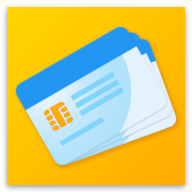
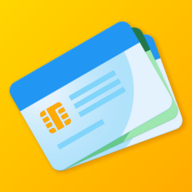
Updates

diff --git a/index.html b/index.html
@@ -49,11 +49,11 @@
     <meta property="og:title" content="TesSa" />
     <meta
       property="og:description"
-      content="Le Tessere Sanitarie sempre con te"
+      content="Tessere Sanitarie e Green Pass sempre con te"
     />
     <meta
       property="og:image"
-      content="https://baleendevs.github.io/tessa/img/tessa_logo_1080.jpg"
+      content="https://baleendevs.github.io/tessa/img/tessa_logo_GP_1080.jpg"
     />
     <!-- Twitter -->
     <meta property="twitter:card" content="summary_large_image" />
@@ -64,11 +64,11 @@
     <meta property="twitter:title" content="TesSa" />
     <meta
       property="twitter:description"
-      content="Le Tessere Sanitarie sempre con te"
+      content="Tessere Sanitarie e Green Pass sempre con te"
     />
     <meta
       property="twitter:image"
-      content="https://baleendevs.github.io/tessa/img/tessa_logo_1080.jpg"
+      content="https://baleendevs.github.io/tessa/img/tessa_logo_GP_1080.jpg"
     />
 
     <link
@@ -87,10 +87,11 @@
       <div class="nav-wrapper">
         <div class="brand-logo center">
           <a href="index.html" class="valign-wrapper"
-            ><img class="logo-img" src="img/tessa_logo_small.png" alt="" /><span
-              class="title"
-              >TesSa</span
-            ></a
+            ><img
+              class="logo-img"
+              src="img/tessa_logo_GP_small.png"
+              alt=""
+            /><span class="title">TesSa</span></a
           >
         </div>
       </div>
@@ -98,15 +99,15 @@
     <main class="container">
       <div class="row">
         <div class="col s12 m6 l6 xl5 center">
-          <img class="tessa-screenshot" src="img/carousel1_s.jpg" alt="" />
+          <img class="tessa-screenshot" src="img/carousel1_s_GP.jpg" alt="" />
         </div>
         <div class="content col s12 m6 l6 xl7">
           <h4 class="index-content-title">
-            TesSa - Le Tessere Sanitarie sempre con te
+            TesSa - Tessere Sanitarie e Green Pass sempre con te
           </h4>
           <p class="flow-text">
-            Installa TesSa e porta sempre con te le Tessere Sanitarie di cui hai
-            bisogno
+            Installa TesSa e tieni sempre a portata di mano le Tessere Sanitarie
+            ed i Green Pass di cui hai bisogno
           </p>
           <div class="center-align">
             <a

diff --git a/en/index.html b/en/index.html
@@ -49,11 +49,11 @@
     <meta property="og:title" content="TesSa" />
     <meta
       property="og:description"
-      content="Bring your Health Insurance Cards always with you"
+      content="Health Insurance Cards and Green Passes at your fingertips"
     />
     <meta
       property="og:image"
-      content="https://baleendevs.github.io/tessa/img/tessa_logo_1080.jpg"
+      content="https://baleendevs.github.io/tessa/img/tessa_logo_GP_1080.jpg"
     />
     <!-- Twitter -->
     <meta property="twitter:card" content="summary_large_image" />
@@ -64,11 +64,11 @@
     <meta property="twitter:title" content="TesSa" />
     <meta
       property="twitter:description"
-      content="Bring your Health Insurance Cards always with you"
+      content="Health Insurance Cards and Green Passes at your fingertips"
     />
     <meta
       property="twitter:image"
-      content="https://baleendevs.github.io/tessa/img/tessa_logo_1080.jpg"
+      content="https://baleendevs.github.io/tessa/img/tessa_logo_GP_1080.jpg"
     />
 
     <link
@@ -89,7 +89,7 @@
           <a href="index.html" class="valign-wrapper"
             ><img
               class="logo-img"
-              src="../img/tessa_logo_small.png"
+              src="../img/tessa_logo_GP_small.png"
               alt=""
             /><span class="title">TesSa</span></a
           >
@@ -99,15 +99,19 @@
     <main class="container">
       <div class="row">
         <div class="col s12 m6 l6 xl5 center">
-          <img class="tessa-screenshot" src="../img/carousel1_s.jpg" alt="" />
+          <img
+            class="tessa-screenshot"
+            src="../img/carousel1_s_GP.jpg"
+            alt=""
+          />
         </div>
         <div class="content col s12 m6 l6 xl7">
           <h4 class="index-content-title">
-            TesSa - Bring your Health Insurance Cards always with you
+            TesSa - Health Insurance Cards and Green Passes at your fingertips
           </h4>
           <p class="flow-text">
-            Install TesSa and keep all the Health Insurance Cards you need
-            always with you
+            Install TesSa and bring all the Health Insurance Cards and Green
+            Passes you need always with you
           </p>
           <div class="center-align">
             <a

diff --git a/share.html b/share.html
@@ -49,11 +49,11 @@
     <meta property="og:title" content="TesSa" />
     <meta
       property="og:description"
-      content="Le Tessere Sanitarie sempre con te"
+      content="Tessere Sanitarie e Green Pass sempre con te"
     />
     <meta
       property="og:image"
-      content="https://baleendevs.github.io/tessa/img/tessa_share_logo_1080.jpg"
+      content="https://baleendevs.github.io/tessa/img/tessa_share_logo_GP_1080.jpg"
     />
     <!-- Twitter -->
     <meta property="twitter:card" content="summary_large_image" />
@@ -64,11 +64,11 @@
     <meta property="twitter:title" content="TesSa" />
     <meta
       property="twitter:description"
-      content="Le Tessere Sanitarie sempre con te"
+      content="Tessere Sanitarie e Green Pass sempre con te"
     />
     <meta
       property="twitter:image"
-      content="https://baleendevs.github.io/tessa/img/tessa_share_logo_1080.jpg"
+      content="https://baleendevs.github.io/tessa/img/tessa_share_logo_GP_1080.jpg"
     />
 
     <link
@@ -87,10 +87,11 @@
       <div class="nav-wrapper">
         <div class="brand-logo center">
           <a href="index.html" class="valign-wrapper"
-            ><img class="logo-img" src="img/tessa_logo_small.png" alt="" /><span
-              class="title"
-              >TesSa</span
-            ></a
+            ><img
+              class="logo-img"
+              src="img/tessa_logo_GP_small.png"
+              alt=""
+            /><span class="title">TesSa</span></a
           >
         </div>
       </div>
@@ -115,8 +116,8 @@
             Aggiungi la Tessera Sanitaria di <span id="tsOwner"></span> su TesSa
           </h4>
           <p class="flow-text">
-            Installa TesSa e porta sempre con te le Tessere Sanitarie di cui hai
-            bisogno
+            Installa TesSa e tieni sempre a portata di mano le Tessere Sanitarie
+            ed i Green Pass di cui hai bisogno
           </p>
           <div class="center-align">
             <a

diff --git a/en/share.html b/en/share.html
@@ -49,11 +49,11 @@
     <meta property="og:title" content="TesSa" />
     <meta
       property="og:description"
-      content="Bring your Health Insurance Cards always with you"
+      content="Health Insurance Cards and Green Passes at your fingertips"
     />
     <meta
       property="og:image"
-      content="https://baleendevs.github.io/tessa/img/tessa_share_logo_1080.jpg"
+      content="https://baleendevs.github.io/tessa/img/tessa_share_logo_GP_1080.jpg"
     />
     <!-- Twitter -->
     <meta property="twitter:card" content="summary_large_image" />
@@ -64,11 +64,11 @@
     <meta property="twitter:title" content="TesSa" />
     <meta
       property="twitter:description"
-      content="Bring your Health Insurance Cards always with you"
+      content="Health Insurance Cards and Green Passes at your fingertips"
     />
     <meta
       property="twitter:image"
-      content="https://baleendevs.github.io/tessa/img/tessa_share_logo_1080.jpg"
+      content="https://baleendevs.github.io/tessa/img/tessa_share_logo_GP_1080.jpg"
     />
 
     <link
@@ -89,7 +89,7 @@
           <a href="index.html" class="valign-wrapper"
             ><img
               class="logo-img"
-              src="../img/tessa_logo_small.png"
+              src="../img/tessa_logo_GP_small.png"
               alt=""
             /><span class="title">TesSa</span></a
           >
@@ -116,8 +116,8 @@
             Add <span id="tsOwner"></span>'s Health Insurance Card to TesSa
           </h4>
           <p class="flow-text">
-            Install TesSa and keep all the Health Insurance Cards you need
-            always with you
+            Install TesSa and bring all the Health Insurance Cards and Green
+            Passes you need always with you
           </p>
           <div class="center-align">
             <a

diff --git a/terms.html b/terms.html
@@ -34,11 +34,11 @@
     <meta property="og:title" content="TesSa" />
     <meta
       property="og:description"
-      content="Le Tessere Sanitarie sempre con te"
+      content="Tessere Sanitarie e Green Pass sempre con te"
     />
     <meta
       property="og:image"
-      content="https://baleendevs.github.io/tessa/img/tessa_logo_1080.jpg"
+      content="https://baleendevs.github.io/tessa/img/tessa_logo_GP_1080.jpg"
     />
     <!-- Twitter -->
     <meta property="twitter:card" content="summary_large_image" />
@@ -49,11 +49,11 @@
     <meta property="twitter:title" content="TesSa" />
     <meta
       property="twitter:description"
-      content="Le Tessere Sanitarie sempre con te"
+      content="Tessere Sanitarie e Green Pass sempre con te"
     />
     <meta
       property="twitter:image"
-      content="https://baleendevs.github.io/tessa/img/tessa_logo_1080.jpg"
+      content="https://baleendevs.github.io/tessa/img/tessa_logo_GP_1080.jpg"
     />
     <link
       href="https://fonts.googleapis.com/css2?family=Roboto:wght@300;400;500;700&display=swap"
@@ -71,10 +71,11 @@
       <div class="nav-wrapper">
         <div class="brand-logo center">
           <a href="index.html" class="valign-wrapper"
-            ><img class="logo-img" src="img/tessa_logo_small.png" alt="" /><span
-              class="title"
-              >TesSa</span
-            ></a
+            ><img
+              class="logo-img"
+              src="img/tessa_logo_GP_small.png"
+              alt=""
+            /><span class="title">TesSa</span></a
           >
         </div>
       </div>

diff --git a/privacy.html b/privacy.html
@@ -33,11 +33,11 @@
     <meta property="og:title" content="TesSa" />
     <meta
       property="og:description"
-      content="Le Tessere Sanitarie sempre con te"
+      content="Tessere Sanitarie e Green Pass sempre con te"
     />
     <meta
       property="og:image"
-      content="https://baleendevs.github.io/tessa/img/tessa_logo_1080.jpg"
+      content="https://baleendevs.github.io/tessa/img/tessa_logo_GP_1080.jpg"
     />
     <!-- Twitter -->
     <meta property="twitter:card" content="summary_large_image" />
@@ -48,11 +48,11 @@
     <meta property="twitter:title" content="TesSa" />
     <meta
       property="twitter:description"
-      content="Le Tessere Sanitarie sempre con te"
+      content="Tessere Sanitarie e Green Pass sempre con te"
     />
     <meta
       property="twitter:image"
-      content="https://baleendevs.github.io/tessa/img/tessa_logo_1080.jpg"
+      content="https://baleendevs.github.io/tessa/img/tessa_logo_GP_1080.jpg"
     />
 
     <link
@@ -71,10 +71,11 @@
       <div class="nav-wrapper">
         <div class="brand-logo center">
           <a href="index.html" class="valign-wrapper"
-            ><img class="logo-img" src="img/tessa_logo_small.png" alt="" /><span
-              class="title"
-              >TesSa</span
-            ></a
+            ><img
+              class="logo-img"
+              src="img/tessa_logo_GP_small.png"
+              alt=""
+            /><span class="title">TesSa</span></a
           >
         </div>
       </div>
